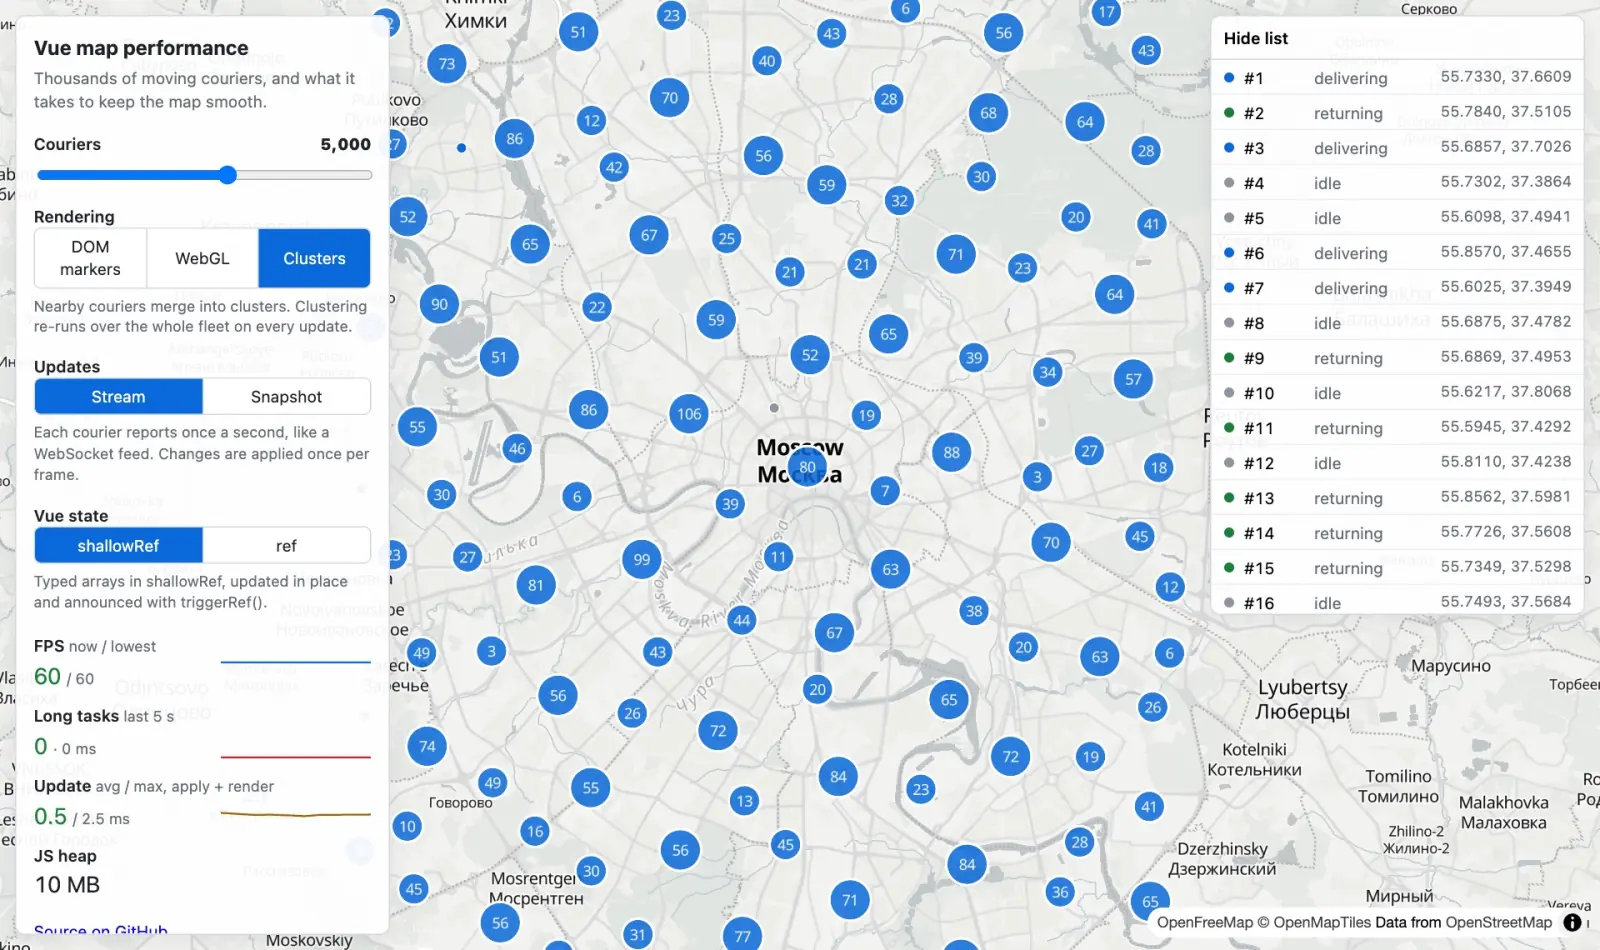
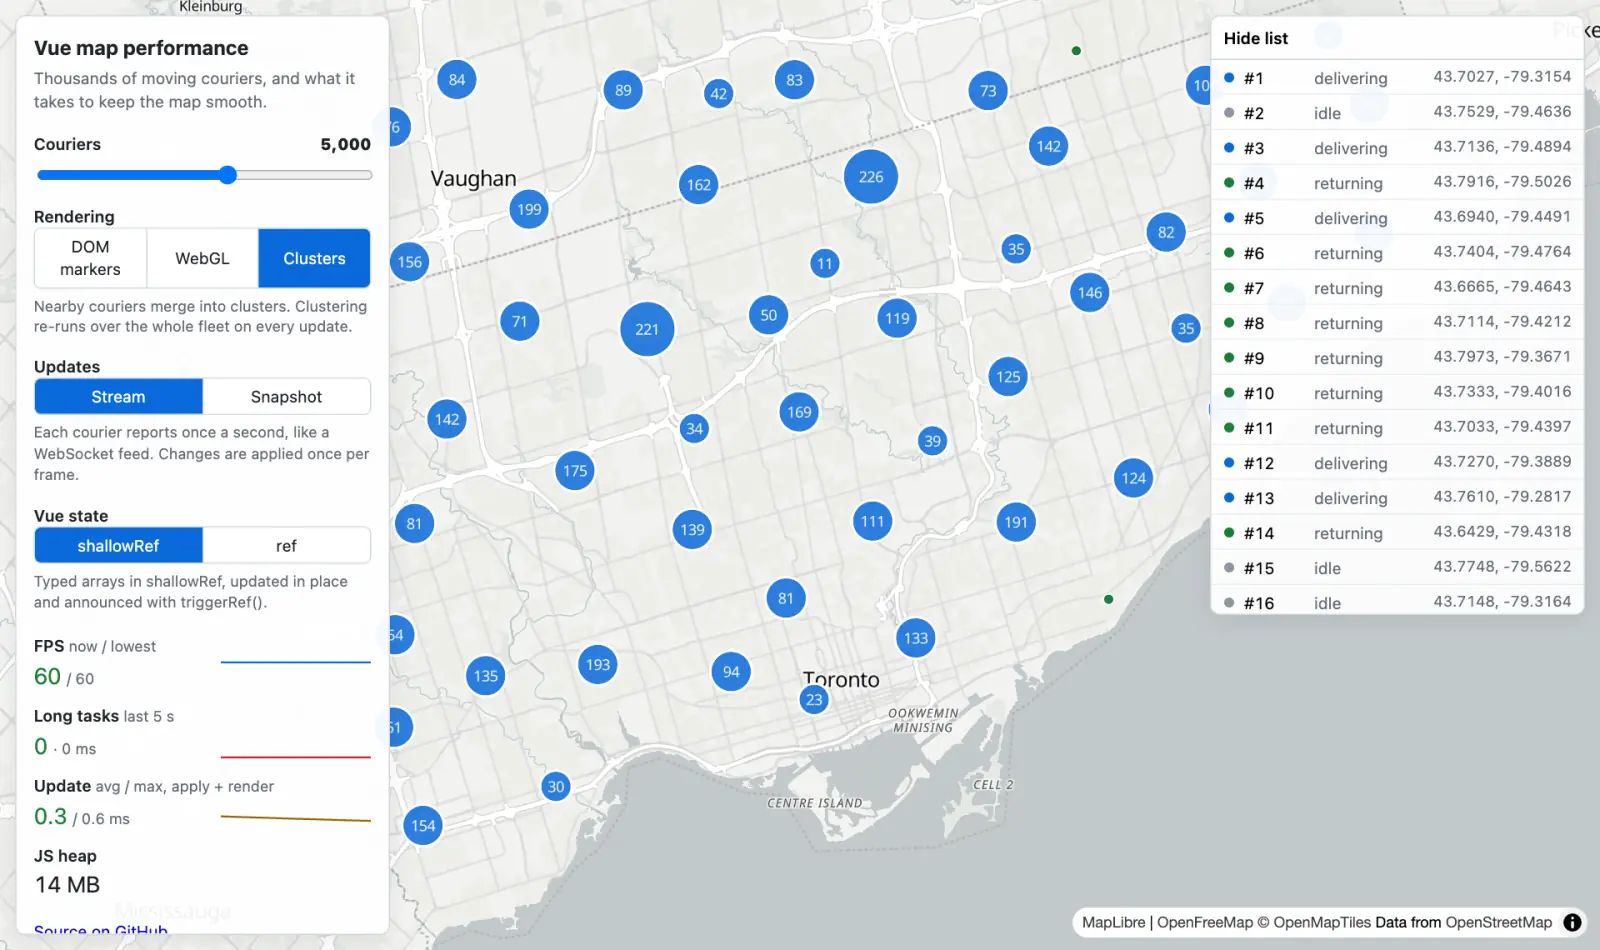
Move the simulation to Toronto
Couriers are placed north of a simplified Lake Ontario shoreline, so
nobody drives on the water.

diff --git a/tests/fleet.test.ts b/tests/fleet.test.ts
@@ -1,12 +1,11 @@
 import { describe, expect, test } from 'vitest'
-import { MOSCOW } from '../src/simulation/city'
-import { MOSCOW_CENTER } from '../src/simulation/city'
+import { TORONTO } from '../src/simulation/city'
 import { createFleet, MAX_SPEED, METERS_PER_DEGREE, stepFleet } from '../src/simulation/fleet'
 
 describe('fleet', () => {
   test('the same seed gives the same fleet', () => {
-    const a = createFleet(100, 7, MOSCOW)
-    const b = createFleet(100, 7, MOSCOW)
+    const a = createFleet(100, 7, TORONTO)
+    const b = createFleet(100, 7, TORONTO)
     stepFleet(a, 30)
     stepFleet(b, 30)
     expect(a.positions).toEqual(b.positions)
@@ -14,30 +13,45 @@ describe('fleet', () => {
   })
 
   test('a different seed gives a different fleet', () => {
-    expect(createFleet(100, 1, MOSCOW).positions).not.toEqual(createFleet(100, 2, MOSCOW).positions)
+    expect(createFleet(100, 1, TORONTO).positions).not.toEqual(
+      createFleet(100, 2, TORONTO).positions,
+    )
   })
 
   test('couriers stay inside the city', () => {
-    const fleet = createFleet(500, 3, MOSCOW)
+    const { west, south, east, north } = TORONTO.bounds
+    const fleet = createFleet(500, 3, TORONTO)
     for (let step = 0; step < 200; step++) stepFleet(fleet, 60)
 
     for (let i = 0; i < fleet.count; i++) {
       const lng = fleet.positions[i * 2]!
       const lat = fleet.positions[i * 2 + 1]!
-      expect(lng).toBeGreaterThanOrEqual(MOSCOW.west - 1e-4)
-      expect(lng).toBeLessThanOrEqual(MOSCOW.east + 1e-4)
-      expect(lat).toBeGreaterThanOrEqual(MOSCOW.south - 1e-4)
-      expect(lat).toBeLessThanOrEqual(MOSCOW.north + 1e-4)
+      expect(lng).toBeGreaterThanOrEqual(west - 1e-4)
+      expect(lng).toBeLessThanOrEqual(east + 1e-4)
+      expect(lat).toBeGreaterThanOrEqual(south - 1e-4)
+      expect(lat).toBeLessThanOrEqual(north + 1e-4)
     }
   })
 
+  test('couriers start and head to points on land, not in the lake', () => {
+    const fleet = createFleet(2000, 9, TORONTO)
+    for (let step = 0; step < 50; step++) stepFleet(fleet, 60)
+
+    for (let i = 0; i < fleet.count; i++) {
+      // Targets are always drawn from `contains`; positions reach them in straight lines.
+      expect(TORONTO.contains(fleet.targets[i * 2]!, fleet.targets[i * 2 + 1]!)).toBe(true)
+    }
+    expect(TORONTO.contains(-79.38, 43.6)).toBe(false) // Lake Ontario, off downtown
+    expect(TORONTO.contains(-79.38, 43.65)).toBe(true) // downtown
+  })
+
   test('couriers move at a plausible speed', () => {
-    const fleet = createFleet(50, 5, MOSCOW)
+    const fleet = createFleet(50, 5, TORONTO)
     const before = fleet.positions.slice()
     stepFleet(fleet, 1)
 
     for (let i = 0; i < fleet.count; i++) {
-      const metersPerLng = METERS_PER_DEGREE * Math.cos((MOSCOW_CENTER[1] * Math.PI) / 180)
+      const metersPerLng = METERS_PER_DEGREE * Math.cos((TORONTO.center[1] * Math.PI) / 180)
       const dLat = (fleet.positions[i * 2 + 1]! - before[i * 2 + 1]!) * METERS_PER_DEGREE
       const dLng = (fleet.positions[i * 2]! - before[i * 2]!) * metersPerLng
       // Allow a metre for float32 rounding and latitude spread.

diff --git a/src/simulation/city.ts b/src/simulation/city.ts
@@ -5,7 +5,51 @@ export interface Bounds {
   north: number
 }
 
-/** Roughly the area inside the Moscow ring road. */
-export const MOSCOW: Bounds = { west: 37.37, south: 55.58, east: 37.84, north: 55.91 }
+export interface City {
+  center: [number, number]
+  bounds: Bounds
+  /** Whether a courier can be at this point, e.g. not in a lake. */
+  contains(lng: number, lat: number): boolean
+}
 
-export const MOSCOW_CENTER: [number, number] = [37.6176, 55.7558]
+/** Lake Ontario shoreline along Toronto, simplified, west to east. */
+const TORONTO_SHORELINE: [number, number][] = [
+  [-79.58, 43.585],
+  [-79.54, 43.595],
+  [-79.5, 43.61],
+  [-79.47, 43.625],
+  [-79.43, 43.632],
+  [-79.39, 43.638],
+  [-79.36, 43.645],
+  [-79.33, 43.652],
+  [-79.3, 43.665],
+  [-79.27, 43.675],
+  [-79.24, 43.69],
+  [-79.2, 43.725],
+  [-79.17, 43.755],
+  [-79.15, 43.77],
+]
+/** Keeps couriers a few hundred metres off the water. */
+const SHORE_MARGIN = 0.004
+
+export const TORONTO: City = {
+  center: [-79.4, 43.715],
+  bounds: { west: -79.58, south: 43.585, east: -79.15, north: 43.84 },
+  contains: (lng, lat) => lat > latitudeOnLine(TORONTO_SHORELINE, lng) + SHORE_MARGIN,
+}
+
+/** Latitude of a west-to-east polyline at `lng`, linearly interpolated. */
+function latitudeOnLine(line: [number, number][], lng: number): number {
+  const first = line[0]!
+  const last = line[line.length - 1]!
+  if (lng <= first[0]) return first[1]
+  if (lng >= last[0]) return last[1]
+  for (let i = 1; i < line.length; i++) {
+    const [x1, y1] = line[i]!
+    if (lng <= x1) {
+      const [x0, y0] = line[i - 1]!
+      return y0 + ((lng - x0) / (x1 - x0)) * (y1 - y0)
+    }
+  }
+  return last[1]
+}

diff --git a/src/simulation/fleet.ts b/src/simulation/fleet.ts
@@ -1,4 +1,4 @@
-import type { Bounds } from './city'
+import type { City } from './city'
 import { createRandom } from './random'
 
 export const Status = {
@@ -18,7 +18,7 @@ export const MAX_SPEED = 16
  */
 export interface Fleet {
   readonly count: number
-  readonly bounds: Bounds
+  readonly city: City
   /** [lng0, lat0, lng1, lat1, ...] */
   readonly positions: Float32Array
   readonly targets: Float32Array
@@ -28,11 +28,11 @@ export interface Fleet {
   readonly random: () => number
 }
 
-export function createFleet(count: number, seed: number, bounds: Bounds): Fleet {
+export function createFleet(count: number, seed: number, city: City): Fleet {
   const random = createRandom(seed)
   const fleet: Fleet = {
     count,
-    bounds,
+    city,
     positions: new Float32Array(count * 2),
     targets: new Float32Array(count * 2),
     speeds: new Float32Array(count),
@@ -83,7 +83,13 @@ function nextStatus(status: Status): Status {
 }
 
 function setRandomPoint(fleet: Fleet, target: Float32Array, i: number): void {
-  const { west, south, east, north } = fleet.bounds
-  target[i * 2] = west + fleet.random() * (east - west)
-  target[i * 2 + 1] = south + fleet.random() * (north - south)
+  const { west, south, east, north } = fleet.city.bounds
+  let lng: number
+  let lat: number
+  do {
+    lng = west + fleet.random() * (east - west)
+    lat = south + fleet.random() * (north - south)
+  } while (!fleet.city.contains(lng, lat))
+  target[i * 2] = lng
+  target[i * 2 + 1] = lat
 }

diff --git a/tests/feed.test.ts b/tests/feed.test.ts
@@ -1,5 +1,5 @@
 import { describe, expect, test } from 'vitest'
-import { MOSCOW } from '../src/simulation/city'
+import { TORONTO } from '../src/simulation/city'
 import { MAX_SPEED, METERS_PER_DEGREE } from '../src/simulation/fleet'
 import { useCouriers } from '../src/state/useCouriers'
 import {
@@ -10,7 +10,7 @@ import {
   type FeedMessage,
 } from '../src/simulation/feed'
 
-const options = { count: 300, seed: 11, snapshotIntervalMs: 3000, bounds: MOSCOW }
+const options = { count: 300, seed: 11, snapshotIntervalMs: 3000, city: TORONTO }
 
 function run(feed: ReturnType<typeof createFeed>, ms: number): FeedMessage[] {
   const out: FeedMessage[] = []
@@ -70,7 +70,7 @@ describe('stream mode', () => {
     // snapshot by at most one interval of movement at top speed. A degree of
     // longitude is shortest at the northern edge, which gives the widest bound.
     const maxLagMeters = MAX_SPEED * TIME_SCALE * (REPORT_INTERVAL_MS / 1000)
-    const metersPerDegreeLng = METERS_PER_DEGREE * Math.cos((MOSCOW.north * Math.PI) / 180)
+    const metersPerDegreeLng = METERS_PER_DEGREE * Math.cos((TORONTO.bounds.north * Math.PI) / 180)
     const maxLagDegrees = maxLagMeters / metersPerDegreeLng
     for (let i = 0; i < options.count; i++) {
       expect(Math.abs(store.view.lng(i) - full!.positions[i * 2]!)).toBeLessThan(maxLagDegrees)

diff --git a/src/simulation/feed.ts b/src/simulation/feed.ts
@@ -1,5 +1,5 @@
 import type { FeedMode } from '../settings'
-import type { Bounds } from './city'
+import type { City } from './city'
 import { createFleet, stepFleet } from './fleet'
 import { createRandom } from './random'
 
@@ -9,7 +9,7 @@ export interface FeedOptions {
   mode: FeedMode
   /** How often a full snapshot is sent in `snapshot` mode. */
   snapshotIntervalMs: number
-  bounds: Bounds
+  city: City
 }
 
 // Plain ArrayBuffers (not shared), so they can be transferred to the main thread.
@@ -29,7 +29,7 @@ export const TIME_SCALE = 10
 export const REPORT_INTERVAL_MS = 1000
 
 export function createFeed(options: FeedOptions) {
-  const fleet = createFleet(options.count, options.seed, options.bounds)
+  const fleet = createFleet(options.count, options.seed, options.city)
   const phaseRandom = createRandom(options.seed + 1)
   const phases = Float64Array.from(
     { length: options.count },

diff --git a/src/App.vue b/src/App.vue
@@ -7,7 +7,7 @@ import { Map as MapLibreMap } from './map/maplibre'
 import { createRenderer, type Renderer } from './map/renderers'
 import { useMetrics } from './metrics/useMetrics'
 import { normalizeSettings, parseSettings, serializeSettings, type Settings } from './settings'
-import { MOSCOW_CENTER } from './simulation/city'
+import { TORONTO } from './simulation/city'
 import type { WorkerCommand, WorkerMessage } from './simulation/worker'
 import { useCouriers } from './state/useCouriers'
 
@@ -88,8 +88,8 @@ onMounted(() => {
   map = new MapLibreMap({
     container: container.value!,
     style: 'https://tiles.openfreemap.org/styles/positron',
-    center: MOSCOW_CENTER,
-    zoom: 10,
+    center: TORONTO.center,
+    zoom: 10.5,
   })
   map.on('load', () => {
     mapReady.value = true

diff --git a/src/simulation/worker.ts b/src/simulation/worker.ts
@@ -1,4 +1,4 @@
-import { MOSCOW } from './city'
+import { TORONTO } from './city'
 import type { FeedMode } from '../settings'
 import { createFeed, TICK_MS, type FeedMessage } from './feed'
 
@@ -23,7 +23,7 @@ self.onmessage = (event: MessageEvent<WorkerCommand>) => {
   clearInterval(timer)
   const command = event.data
 
-  const feed = createFeed({ ...command, bounds: MOSCOW })
+  const feed = createFeed({ ...command, city: TORONTO })
   const post = (message: FeedMessage) => {
     // Transfer the buffers instead of structured-cloning them.
     const buffers: ArrayBuffer[] = [message.positions.buffer, message.statuses.buffer]
